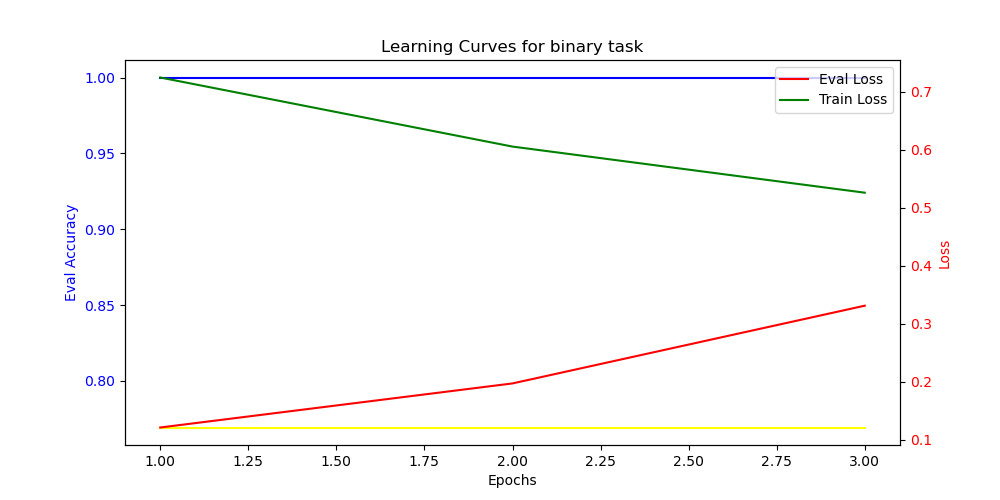
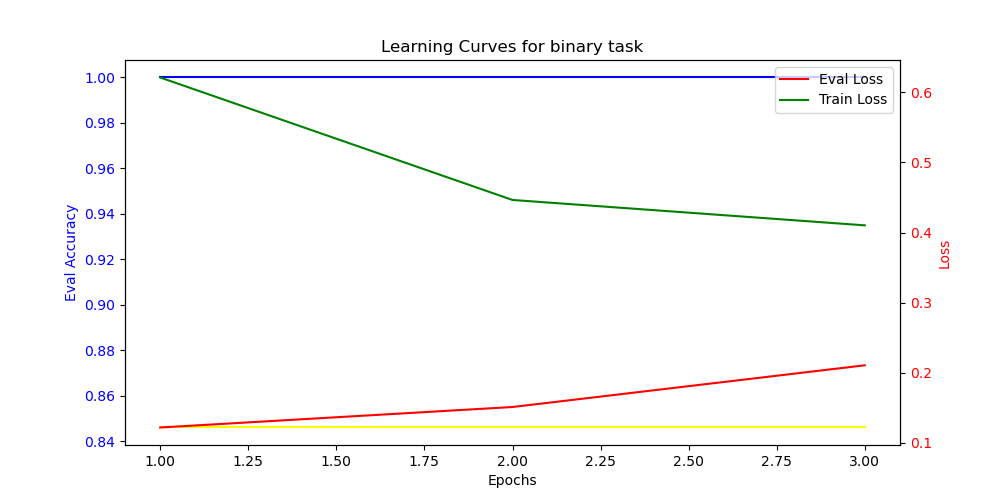
ADDED update_curriculum probability condition. Still state of Change

diff --git a/src/bert_model/PeptideBERTClasses/PeptideCallbackTrainer.py b/src/bert_model/PeptideBERTClasses/PeptideCallbackTrainer.py
@@ -193,5 +193,5 @@ class CurriculumLearningCallback(TrainerCallback):
     A curriculum step is not defined for me so far. It could be something like every 10 Epochs. Need to do some more research on this.
     """
     def on_epoch_end(self, args: TrainingArguments, state: TrainerState, control: TrainerControl, **kwargs):
-        print(1)
-        kwargs['train_dataloader'].base_dataloader.collate_fn.data_collator.update_probability()
+        if state.epoch % 20 == 0:
+            kwargs['train_dataloader'].base_dataloader.collate_fn.data_collator.update_probability()
